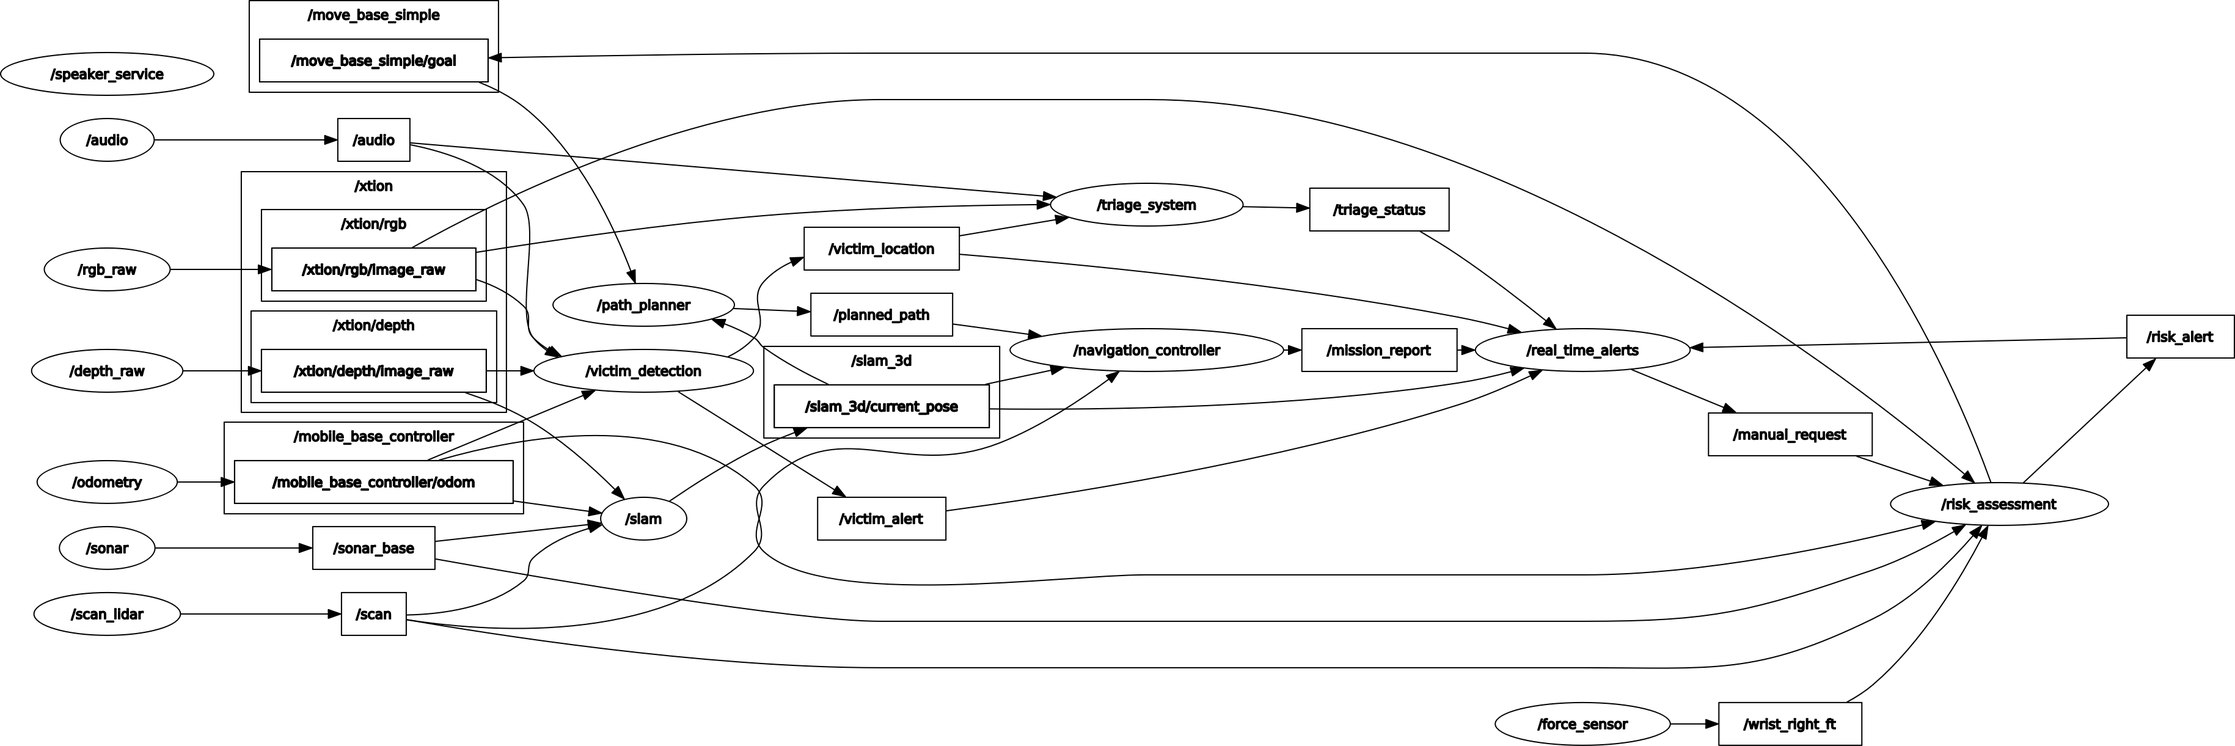
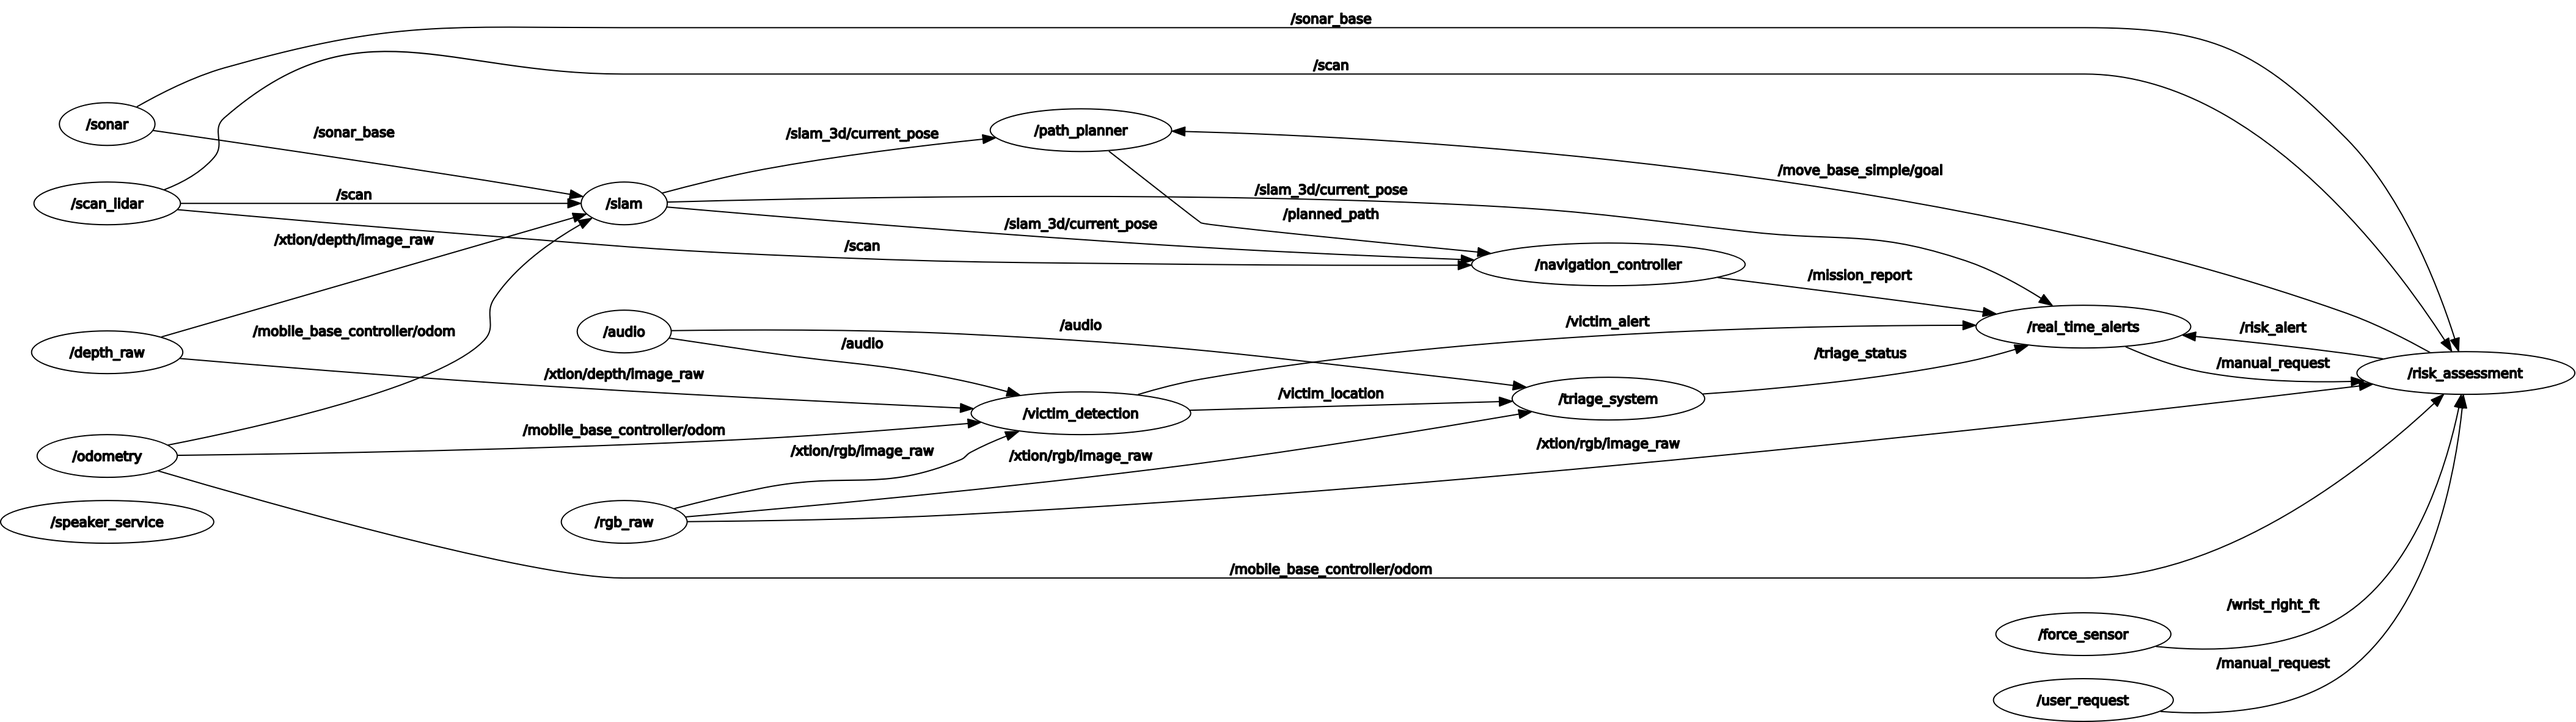
Update README & roosgraph

diff --git a/README.md b/README.md
@@ -3,52 +3,57 @@
 ## Overview
 This repository contains the cognitive architecture developed for the assignment **"Post-Earthquake Scenarios Search and Rescue"** using the TIAGo robot platform.
 
-The purpose is to enable TIAGo to operate autonomously after an earthquake, assisting human rescuers by:
-- 3D mapping of the environment for navigation.
-- Performing autonomous navigation, dynamically adapting to environmental changes.
-- Searching for injured individuals and transmitting their location.
-- Assessing the condition of detected victims.
-- Evaluating structural risks such as cracks and unstable walls.
-- Sending critical reports in real-time to human supervisors.
-- Notifying the mission's completion and awaiting further instructions.
+The purpose of this project is to enable the TIAGo robot to operate autonomously after an earthquake, assisting human rescuers by:
+- **3D Mapping**: Creating a 3D map of the environment for navigation.
+- **Autonomous Navigation**: Dynamically adapting to environmental changes.
+- **Victim Search**: Locating injured individuals and transmitting their location.
+- **Victim Assessment**: Evaluating the condition of detected victims.
+- **Structural Risk Evaluation**: Detecting cracks and unstable walls.
+- **Real-Time Reporting**: Sending critical reports to human supervisors.
+- **Mission Completion Notification**: Notifying the mission's completion and awaiting further instructions.
 
-This project is a dummy prototype for integration testing and design validation purposes.
+This project is a **dummy prototype** for integration testing and design validation purposes.
 
 ---
 
 ## Architecture
-The architecture is designed based on a **modular component-based approach** to ensure scalability and robustness.  
+The architecture is designed using a **modular component-based approach** to ensure scalability and robustness.
 
-### Component diagram
+### Component Diagram
 Below is the designed **Component Diagram** representing the modular structure of the system:
 
 ![Component Diagram](docs/_images/component_diagram.png)
 
-### Brief Description
-Each component's interface is categorized as either **Stateless** or **Stateful**, **Data** or **Service**, and **Strongly-typed** or **Loosely-typed**.
+### Subsystems and Components
+The system contains the following key subsystems and components:
 
-The system contains key subsystems including the following components:
-- **TIAGo Robot** : 
-    - Physical layer providing motor control, force feedback, audio, and battery monitoring.
-    - Components: Left/Right Motor, Left/Right Motor Controller, Left/Right Encoder, Speaker, Microphones, Force Sensor, Battery
-- **Perception** 
-    - Collects environmental data
-    - Components: LiDAR, SONAR, RGB-D Camera
-- **Navigation** 
-    - Builds the 3D map, handles route planning, and updates position using SLAM.
-    - Components: SLAM, Path Planning
-- **Structural Risk Assessment** 
-    - Processes sensor data to detect cracks and unstable structures.
-    - Components: Sensor Fusion, Crack Detection, Image Processing, Weak Walls, Risk Classifier
-- **Victim Handling**
-    - Detects injured individuals, triages their condition, and handles audio interaction.
-    - Components: Victim Detection, Speech to Text, Text to Speech, Triage classifier
-- **Communication** 
-    - Manages reports, real-time alerts, and manual supervisor requests.
-    - Components: Mission Reports, Real-Time Alerts, Graphical User Interface
+#### **TIAGo Robot**
+- **Purpose**: Physical layer providing motor control, force feedback, audio, and battery monitoring.
+- **Components**: Left/Right Motor, Motor Controllers, Encoders, Speaker, Microphones, Force Sensor, Battery.
 
+#### **Perception**
+- **Purpose**: Collects environmental data.
+- **Components**: LiDAR, SONAR, RGB-D Camera.
 
-Design patterns such as **Observer** (for real-time event notifications) and **Strategy** (for flexible triage methods) are suggested for final implementation refinement.
+#### **Navigation**
+- **Purpose**: Builds the 3D map, handles route planning, and updates position using SLAM.
+- **Components**: SLAM, Path Planning.
+
+#### **Structural Risk Assessment**
+- **Purpose**: Processes sensor data to detect cracks and unstable structures.
+- **Components**: Sensor Fusion, Crack Detection, Image Processing, Weak Walls, Risk Classifier.
+
+#### **Victim Handling**
+- **Purpose**: Detects injured individuals, triages their condition, and handles audio interaction.
+- **Components**: Victim Detection, Speech-to-Text, Text-to-Speech, Triage Classifier.
+
+#### **Communication**
+- **Purpose**: Manages reports, real-time alerts, and manual supervisor requests.
+- **Components**: Mission Reports, Real-Time Alerts, Graphical User Interface.
+
+### Design Patterns
+- **Observer Pattern**: Used for real-time event notifications.
+- **Strategy Pattern**: Enables flexible triage methods.
 
 ---
 
@@ -57,13 +62,13 @@ The following is the system's **ROS graph**, showing topic-level communication b
 
 ![ROS Graph](docs/_images/rosgraph.png)
 
-### Key Topics:
-- **Mapping and Navigation**: `/slam_3d`, `/move_base_simple/goal`, `/navigation_controller`
-- **Victim Handling**: `/victim_detection`, `/victim_alert`, `/victim_location`
-- **Structural Assessment**: `/rsk_assessment`, `/rsk_alert`
-- **Communication**: `/mission_report`, `/real_time_alerts`
-- **Supervisor Inputs**: `/manual_request`
-- **Sensor Data Inputs**: `/scan`, `/sonar_base`, `/odometry`, `/xtion/rgb/image_raw`, `/xtion/depth/image_raw`, `/force_sensor`
+### Key Topics
+- **Mapping and Navigation**: `/slam_3d/current_pose`, `/slam_3d/map`, `/move_base_simple/goal`, `/planned_path`,`/mobile_base_controller/cmd_vel`.
+- **Victim Handling**: `/victim_alert`, `/victim_location`, `/triage_status`
+- **Structural Assessment**: `/risk_alert`.
+- **Communication**: `/mission_report`.
+- **Supervisor Inputs**: `/manual_request`.
+- **Sensor Data Inputs**: `/audio`, `/scan`, `/sonar_base`, `/odometry`, `/xtion/rgb/image_raw`, `/xtion/depth/image_raw`, `/wrist_right_ft`.
 
 ---
 
@@ -71,38 +76,117 @@ The following is the system's **ROS graph**, showing topic-level communication b
 
 ```bash
 CogArch-SAR-TIAGo/
-├── bags/         # Recorded ROS bag files
-├── diagrams/     # Diagrams (Component, behavioral diagrams)
-├── docs/         # Documentation files (Sphinx generated)
-├── launch/       # ROS launch files
-├── msg/          # Custom ROS message definitions
-├── scripts/      # Scripts for dummy components
-├── srv/          # Custom ROS service definitions
-├── tests/        # Integration test files
+├── CMakeLists.txt # CMake build configuration
+├── package.xml    # ROS package manifest
+├── README.md      # Project documentation
+├── bags/          # Recorded ROS bag files
+│   ├── arm_jointstate.bag
+│   ├── audio.bag
+│   ├── depth_raw.bag
+│   ├── force_sensor.bag
+│   ├── odometry.bag
+│   ├── rgb_raw.bag
+│   ├── scan_lidar.bag
+│   ├── sonar.bag
+│   └── user_request.bag
+├── diagrams/      # Diagrams (Component, behavioral diagrams)
+│   ├── component_diagram.png
+│   ├── rosgraph.png
+│   └── behavioral_diagrams/
+├── docs/          # Documentation files (Sphinx generated)
+├── launch/        # ROS launch files
+│   ├── bags.launch
+│   └── nodes.launch
+├── msg/           # Custom ROS message definitions
+│   ├── RiskReport.msg
+│   └── TriageReport.msg
+├── scripts/       # Scripts for dummy components
+│   ├── navigation_controller.py
+│   ├── path_planner.py
+│   ├── real_time_alerts.py
+│   ├── slam.py
+│   ├── speaker_service.py
+│   ├── structural_risk_assessment.py
+│   ├── triage_system.py
+│   └── victim_detection.py
+├── srv/           # Custom ROS service definitions
+│   └── Speaker.srv
+└── tests/         # Integration test files
+│   ├── integration_test.py
+│   └── integration_test.test
 ```
+
 ---
 
 ## How to Run
-1. Go to your ros workspace
+
+Follow these steps to set up and run the project:
+
+### 1. Prerequisites
+Ensure you have the following installed on your system:
+- **Ubuntu 20.04** (or compatible Linux distribution)
+- **ROS Noetic** (installed and properly configured)
+- **Python 3** (with necessary dependencies)
+
+If ROS is not installed, follow the [official ROS installation guide](http://wiki.ros.org/noetic/Installation/Ubuntu).
+
+### 2. Set Up a ROS Workspace
 ```bash
-cd cognitive_architecture_ros
+# Create a workspace directory
+mkdir -p ~/catkin_ws/src
+
+# Navigate to the workspace
+cd ~/catkin_ws
+
+# Initialize the workspace
+catkin_make
 ```
-2. Clone the repository
+
+### 3. Clone the Repository
 ```bash
+cd ~/catkin_ws/src
 git clone https://github.com/waleedelfieky/CogArch-SAR-TIAGo.git
 ```
-3. Launch the full system
+
+### 4. Install Dependencies
+Navigate to the workspace root and install any required dependencies:
 ```bash
-roslaunch launch/full_system.launch
+cd ~/catkin_ws
+rosdep install --from-paths src --ignore-src -r -y
 ```
-4. To run integration tests
+
+### 5. Build the Workspace
+Build the workspace to compile the project:
 ```bash
-roslaunch test/integration_test.launch
+catkin_make
 ```
+
+### 6. Source the Workspace
+Source the workspace to make the packages available to ROS:
+```bash
+source ~/catkin_ws/devel/setup.bash
+```
+
+### 7. Run the Project
+Launch the project using the provided ROS launch files:
+```bash
+roslaunch tiago_sar_cogarch nodes.launch
+```
+
+### 8. Run the Bags with Nodes
+To replay the recorded ROS bag files alongside the nodes, use the `bags.launch` file:
+```bash
+roslaunch tiago_sar_cogarch bags.launch
+```
+
+### 9. Run Integration Tests
+To verify the system's functionality, run the integration tests:
+```bash
+rostest tiago_sar_cogarch integration_test.test
+```
+
+---
 
 ## Notes
-- Behavioral diagrams, KPI descriptions, unit tests, and detailed interfaces for components are provided in the documentation website accompanying this repository.
-
-- Only dummy components are implemented in this repo for the purpose of integration testing.
-
-- Full integration tests ensure message flow correctness and system synchronization.
+- If you encounter any issues during setup or execution, refer to the ROS logs or the documentation provided in the `docs/` directory.
+- Ensure all required hardware and sensors are properly connected if running on a physical robot.
